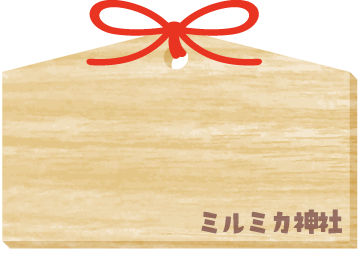
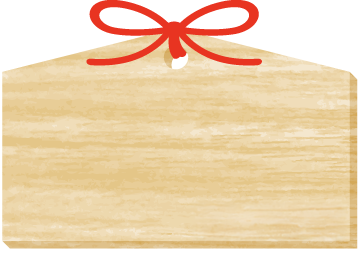
Add files via upload

Changed region(s): [[0.55, 0.7634, 0.9472, 0.916]]

diff --git a/index.html b/index.html
@@ -25,7 +25,7 @@
   </style>
 </head>
 <body>
-  <h1>ミルミカ神社に絵馬を書く</h1>
+  <h1>絵馬を書く</h1>
   <canvas id="canvas" width="360" height="262"></canvas>
   <div id="controls">
     <!-- <input>を<textarea>に変更 -->
